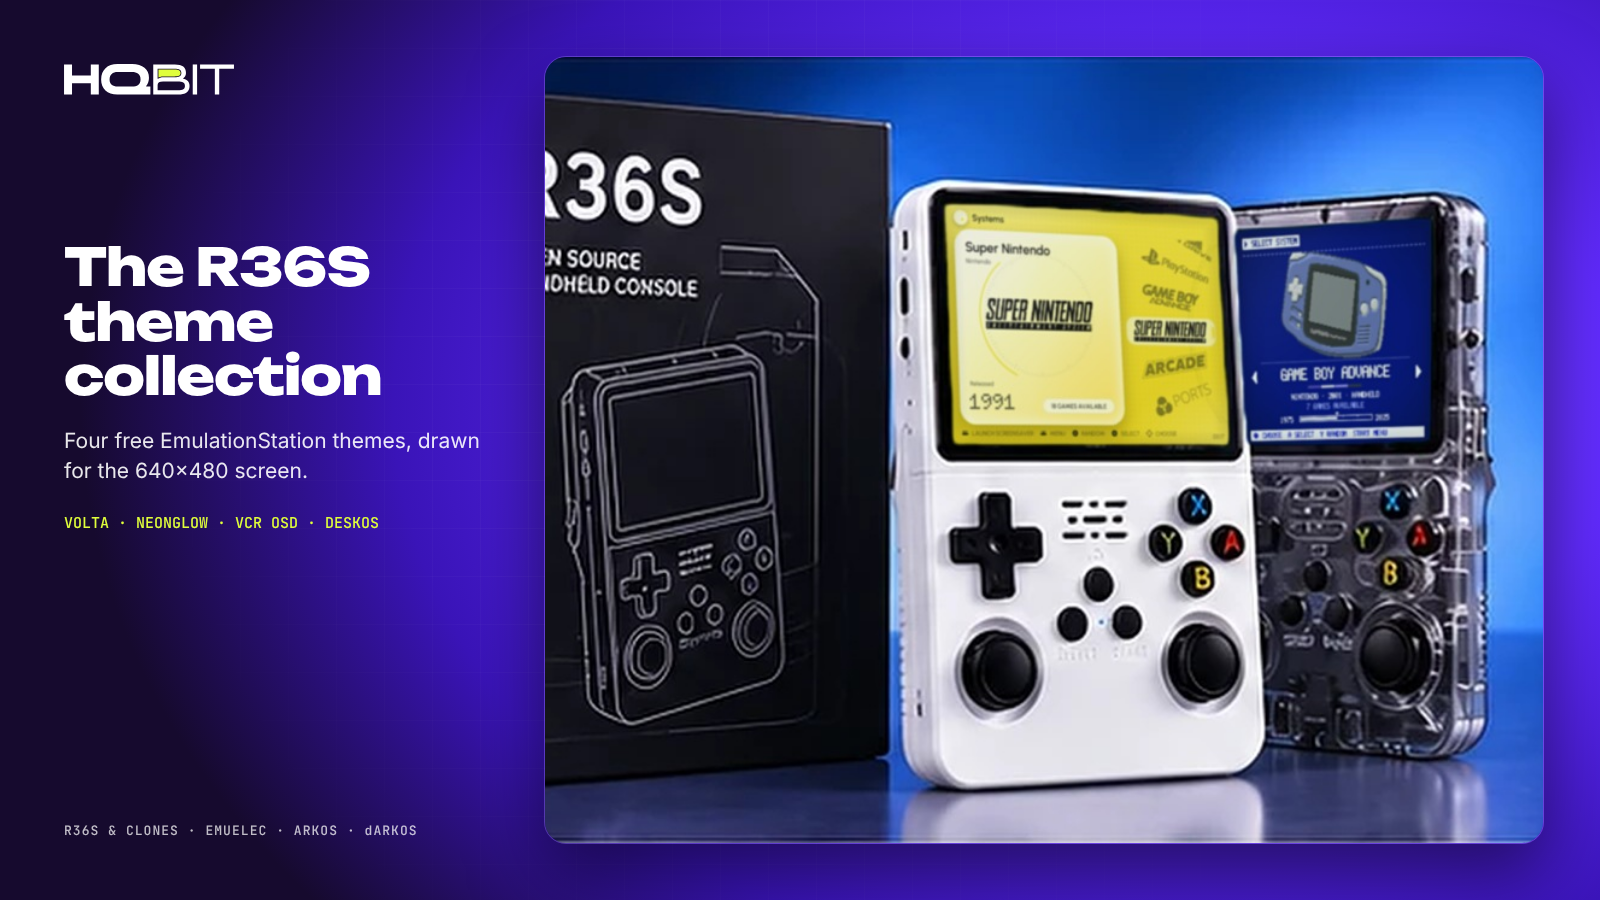
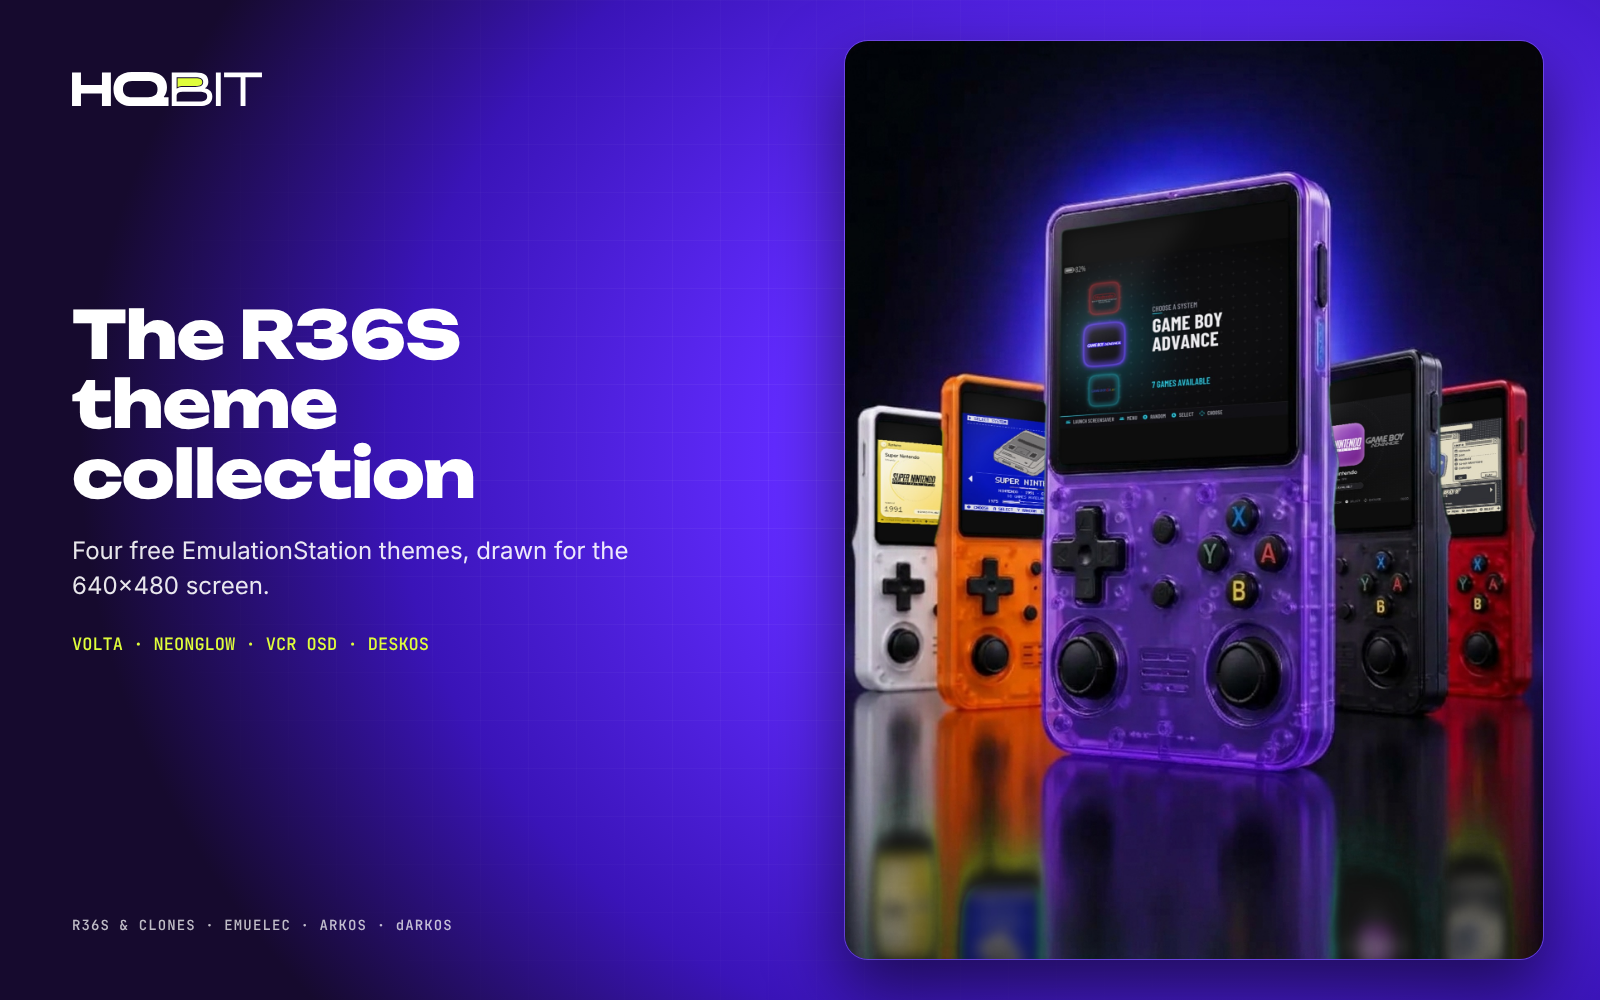
Collection hero: five R36S handhelds with theme screens and floor reflections
tools/composite_five.py keys the green screens and their floor reflections,
extends screens hidden behind the front device, letterboxes the 4:3 themes
and fills each reflection with a blurred, mirrored copy of its screen.

Claude-Session: https://claude.ai/code/session_012YBeFWiQAfsThBpmGfRTHW

diff --git a/hqbit-brand/website/hqbit.html b/hqbit-brand/website/hqbit.html
@@ -178,7 +178,7 @@ dialog button { font: 700 13px/1 var(--display); background: var(--text); color:
           <a class="btn btn-line" href="https://drive.google.com/drive/folders/100a83ie8fWxjgm-VBcgk6h-fA1CaF0Ve" target="_blank" rel="noopener">All downloads on Google Drive</a>
         </div>
       </div>
-      <figure><img src="img/showcase-collection.jpg" width="1600" height="900" alt="A white and a clear R36S next to their box, showing the Volta and VCR OSD themes, with the HQbit logo"></figure>
+      <figure><img src="img/showcase-collection.jpg" width="1600" height="1000" alt="Five R36S handhelds in white, orange, purple, black and red, showing the Volta, VCR OSD, NeonGlow and DeskOS themes, reflected on a glossy floor"></figure>
     </div>
   </div>
 

diff --git a/hqbit-brand/tools/composite_five.py b/hqbit-brand/tools/composite_five.py
@@ -1,0 +1,123 @@
+#!/usr/bin/env python3
+"""Collection hero: five R36S handhelds (green screens + green floor reflections) -> theme screenshots.
+
+usage: composite_five.py <green photo> <out.jpg>
+
+* Screens: keyed by greenness; the visible part is fitted with four lines (see composite_photos.fit_quad).
+  Screens partly hidden behind the front device get their hidden side extended to the front screen's
+  aspect, so the screenshot continues underneath and the matte cuts it where the device in front starts.
+  The photo's screens are taller than 4:3, so the 640x480 screenshot is letterboxed (black bars).
+* Reflections: each green blob on the floor is filled with that device's screen, flipped, blurred and
+  dimmed by the reflection's own brightness, then cut by its soft green matte.
+"""
+import os
+import sys
+
+import cv2
+import numpy as np
+
+sys.path.insert(0, os.path.dirname(os.path.abspath(__file__)))
+from composite_photos import SCR, fit_quad, greenness  # noqa: E402
+
+UP = 2
+# (point inside the green screen, screenshot, hidden side or None, point inside its floor reflection or None)
+SCREENS = [
+    ((77, 629), "volta/system-wheel-citrine.png", "right", (72, 1137)),        # white
+    ((190, 608), "vcr/system-snes.png", "right", (186, 1185)),                  # orange
+    ((636, 590), "volta/system-horizontal-dark.png", "left", (639, 1189)),      # black
+    ((757, 608), "deskos/system-classic.png", "left", (759, 1170)),             # red
+    ((399, 454), "neonglow/system-vertical.png", None, None),                   # purple, in front (drawn last)
+]
+
+
+def component(img, pt):
+    m = (greenness(img) > 40).astype(np.uint8)
+    _, lab = cv2.connectedComponents(m)
+    return (lab == lab[pt[1], pt[0]]).astype(np.uint8)
+
+
+def extend(quad, side, aspect):
+    tl, tr, br, bl = quad
+    h = (np.linalg.norm(bl - tl) + np.linalg.norm(br - tr)) / 2
+    w = h * aspect
+    if side == "right":
+        tr = tl + (tr - tl) / np.linalg.norm(tr - tl) * w
+        br = bl + (br - bl) / np.linalg.norm(br - bl) * w
+    elif side == "left":
+        tl = tr + (tl - tr) / np.linalg.norm(tl - tr) * w
+        bl = br + (bl - br) / np.linalg.norm(bl - br) * w
+    return np.float32([tl, tr, br, bl])
+
+
+def letterbox(shot, aspect):
+    """Put the 4:3 screenshot full-width on a screen of the given width/height aspect."""
+    h, w = shot.shape[:2]
+    H = int(round(w / aspect))
+    canvas = np.full((H, w, 3), 6, np.uint8)
+    y = (H - h) // 2
+    canvas[y:y + h] = shot
+    return canvas
+
+
+def warp(src, quad, size):
+    h, w = src.shape[:2]
+    H = cv2.getPerspectiveTransform(np.float32([[0, 0], [w, 0], [w, h], [0, h]]), quad)
+    return cv2.warpPerspective(src, H, size, flags=cv2.INTER_AREA, borderMode=cv2.BORDER_REPLICATE)
+
+
+def main(src, dst):
+    img = cv2.imread(src)
+    big = cv2.resize(img, None, fx=UP, fy=UP, interpolation=cv2.INTER_LANCZOS4).astype(np.float32) / 255
+    size = (big.shape[1], big.shape[0])
+    gr = cv2.resize(greenness(img), size, interpolation=cv2.INTER_CUBIC)
+    gch = big[..., 1]
+    front = fit_quad(component(img, SCREENS[-1][0]))
+    aspect = (np.linalg.norm(front[1] - front[0]) + np.linalg.norm(front[2] - front[3])) / \
+             (np.linalg.norm(front[3] - front[0]) + np.linalg.norm(front[2] - front[1]))
+    out = big.copy()
+    for inside, shot_path, hidden, refl in SCREENS:
+        m = component(img, inside)
+        quad = fit_quad(m)
+        if hidden:
+            quad = extend(quad, hidden, aspect)
+        q = (quad * UP + (UP - 1) / 2).astype(np.float32)
+        shot = cv2.imread(os.path.join(SCR, shot_path))
+        shot = cv2.resize(shot, None, fx=2, fy=2, interpolation=cv2.INTER_CUBIC)
+        screen = letterbox(shot, aspect).astype(np.float32) / 255
+        screen = 0.03 + screen * 0.94
+        region = cv2.dilate(cv2.resize(m, size, interpolation=cv2.INTER_NEAREST), np.ones((7, 7), np.uint8)).astype(np.float32)
+        matte = cv2.dilate(np.clip((gr - 8) / 50, 0, 1) * region, np.ones((3, 3), np.uint8))
+        matte = cv2.GaussianBlur(matte, (0, 0), 0.6 * UP)[..., None]
+        ws = cv2.GaussianBlur(warp(screen, q, size), (0, 0), 0.35 * UP)
+        tl, tr, br, bl = q
+        band = np.float32([tl, tl + (tr - tl) * 0.6, tl + (tr - tl) * 0.15 + (bl - tl) * 0.5, tl + (bl - tl) * 0.7])
+        sheen = np.zeros(size[::-1], np.float32)
+        cv2.fillPoly(sheen, [band.astype(np.int32)], 0.06)
+        sheen = cv2.GaussianBlur(sheen, (0, 0), 12 * UP)[..., None] * matte
+        layer = ws * matte + out * (1 - matte)
+        out = layer + sheen * (1 - layer)
+        if refl:
+            rm = component(img, refl)
+            x, y, w, h = cv2.boundingRect(rm)                                   # reflections are soft blobs: use their box
+            rq = (np.float32([[x, y], [x + w, y], [x + w, y + h], [x, y + h]]) * UP).astype(np.float32)
+            flipped = np.ascontiguousarray(screen[::-1])                     # mirror image of the screen
+            wr = cv2.GaussianBlur(warp(flipped, rq, size), (0, 0), 9 * UP)
+            rreg = cv2.dilate(cv2.resize(rm, size, interpolation=cv2.INTER_NEAREST), np.ones((15, 15), np.uint8)).astype(np.float32)
+            ra = np.clip((gr - 5) / 60, 0, 1) * rreg
+            ra = cv2.GaussianBlur(ra, (0, 0), 6 * UP)[..., None]
+            light = np.clip(gch / 0.85, 0, 1)[..., None]                      # how bright the reflection is here
+            base = out * (1 - ra)
+            out = base + ra * (0.05 + wr * light * 0.7)
+    # despill the green glow on the shells and the floor
+    ring = cv2.dilate((gr > 6).astype(np.uint8), np.ones((9 * UP, 9 * UP), np.uint8)).astype(bool)
+    b, g, r = out[..., 0], out[..., 1], out[..., 2]
+    lim = np.maximum(b, r)
+    out[..., 1] = np.where(ring & (g > lim), lim + (g - lim) * 0.1, g)
+    res = np.clip(out * 255, 0, 255).astype(np.uint8)
+    res = cv2.addWeighted(res, 1.25, cv2.GaussianBlur(res, (0, 0), 1.2), -0.25, 0)
+    cv2.imwrite(dst, res, [cv2.IMWRITE_JPEG_QUALITY, 93])
+    print("aspect", round(float(aspect), 3))
+
+
+if __name__ == "__main__":
+    main(sys.argv[1], sys.argv[2])

diff --git a/hqbit-brand/tools/build_showcase.py b/hqbit-brand/tools/build_showcase.py
@@ -139,6 +139,19 @@ def collection_photo_card(photo, W=1600, H=900):
  <img src="file://{photo}" style="width:100%;height:100%;object-fit:cover;object-position:82% 50%"></div>"""
 
 
+def five_card(photo, W=1600, H=1000):
+    names = " · ".join(t["name"].upper() for t in THEMES)
+    return f"""{BG}
+<div style="position:absolute;left:72px;top:72px">{logo('horizontal', width=190)}</div>
+<div style="position:absolute;left:72px;top:300px;width:620px">
+ <div style="font-family:UB;font-weight:800;font-size:66px;line-height:1.05;letter-spacing:-.02em">The R36S theme collection</div>
+ <div style="font-size:24px;line-height:1.45;margin-top:26px;color:#ffffffe6">Four free EmulationStation themes, drawn for the 640×480 screen.</div>
+ <div style="font-family:JB;font-size:17px;margin-top:30px;color:{C['lime']}">{names}</div></div>
+<div style="position:absolute;left:72px;bottom:66px;width:620px;font-family:JB;font-size:14px;letter-spacing:.08em;color:#ffffffbb">R36S &amp; CLONES · EMUELEC · ARKOS · dARKOS</div>
+<div style="position:absolute;right:56px;top:40px;bottom:40px;width:700px;border-radius:24px;overflow:hidden;box-shadow:0 30px 70px #0009;border:1px solid #ffffff2a">
+ <img src="file://{photo}" style="width:100%;height:100%;object-fit:cover;object-position:50% 62%"></div>"""
+
+
 def build_photo_cards():
     P = os.path.join(ROOT, "photos", "real")
     focus = {"volta": "62% 50%", "vcr": "50% 50%", "neonglow": "55% 50%", "deskos": "48% 50%"}
@@ -151,8 +164,8 @@ def build_photo_cards():
         w(html, page(photo_card(t, f"{P}/hqbit-photo-{t['key']}.jpg"), 1600, 900))
         render(html, f"{OUT}/hqbit-showcase-{t['key']}.png", 1600, 900)
     html = f"{BUILD}/photo-card-collection.html"
-    w(html, page(collection_photo_card(f"{P}/hqbit-photo-collection.jpg"), 1600, 900))
-    render(html, f"{OUT}/hqbit-showcase-collection.png", 1600, 900)
+    w(html, page(five_card(f"{P}/hqbit-photo-collection-five.jpg"), 1600, 1000))
+    render(html, f"{OUT}/hqbit-showcase-collection.png", 1600, 1000)
 
 
 if __name__ == "__main__" and "--photos" in sys.argv:
